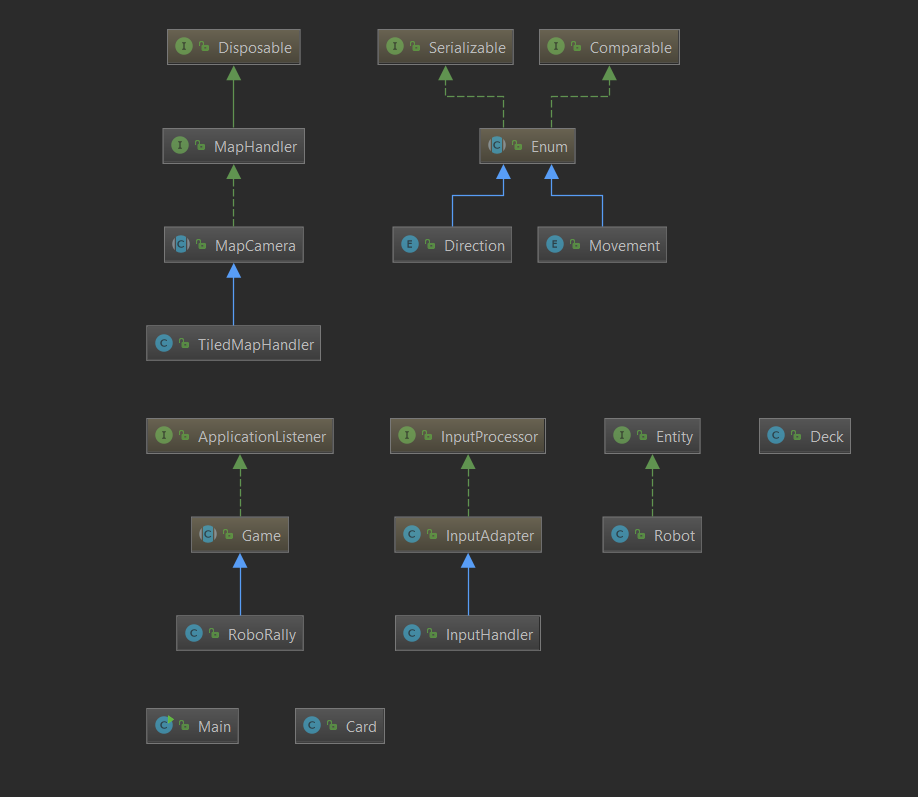
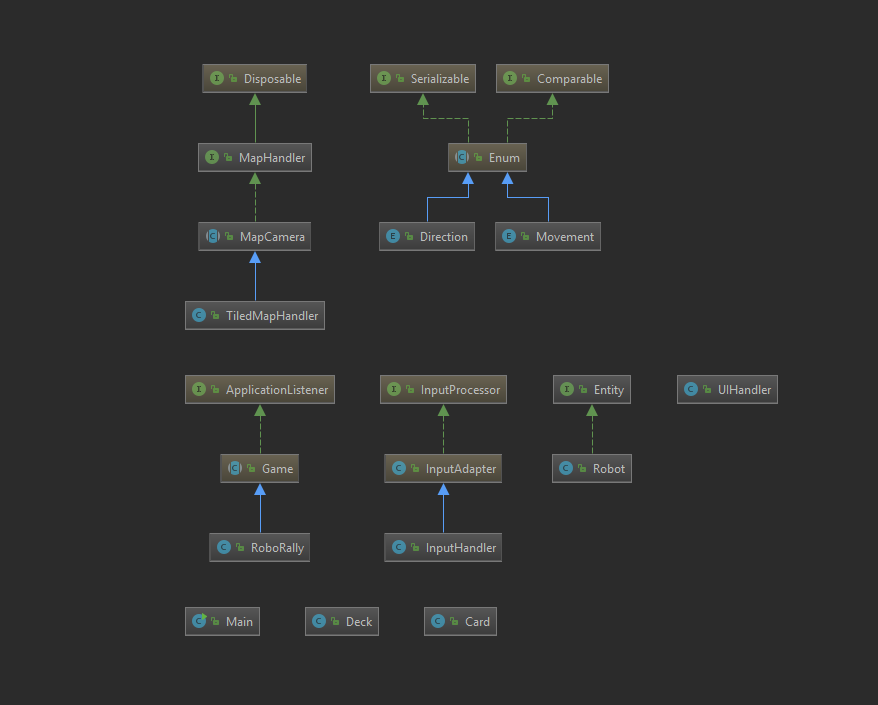
FINAL COMMIT FOR OBLIG 2

diff --git a/Deliverables/Oblig2-presentasjonsnotater.md b/Deliverables/Oblig2-presentasjonsnotater.md
@@ -1,8 +1,9 @@
-Før inn det rikke har skrevet i oblig2.md
+* We have decided to not follow one specific project methodology, but to pick elements we likefrom all of them. We are using a board inspired by both Scrum and Kanban to organize ourtasks. The board doesn’t have limitations to how many tasks can be in each column of theboard (Scrum), and we are also able to add tasks to the ToDo-column as they come up and notonly at the end of the iteration (Kanban).When a task is created and assigned to a group member (the developper), anothergroup member is also assigned to the task to write tests. We wanted to do it this way so thatyou don’t write tests for your own code, but your code has to pass someone elses tests. Anotherbenefit is that there are always two pairs of eyes to look for bugs in the code which will(hopefully) prevent most of the bugs from slipping through the testing phase. In addition wewant every push to master to go through a push request that has to be reviewed and acceptedby a third group member. The reviewer will read through the push request and check the coderuns without bugs on his/her computer. If the reviewer finds bugs, ugly code, lackingdocumentation, etc. (s)he won’t fix the problems, but comment in the push request what needsto be fixed and it’s the developers and testers responsibility to read the comment, fix whatneeds to be fixed and ask for a new review.We want to have two meetings per week (one meeting in addition to the group session).The organization of where and when will be done either at the previous meeting, or on Slack. Atmeetings we start with our version of the Scrum “standup”. We will also define tasks and assignthem, redefine and reassign tasks if necessary, and discuss any issues team members mighthave. The team leader (Kristian) is responsible for creating a meeting agenda, but all teammembers can add things they want to discuss to the agenda. In the project wiki we will postnotes of what has been discussed at every meeting.We are aware of the amount of bureaucracy we have prescribed, but we think this will bebeneficial to the project flow and code quality. If we at some point during the process realise thatour method isn’t efficient we will adapt, as both Kanban and Scrum prescribes!
+* Testing: 1 developer that implements, someone else makes tests
 
 Teknisk
 - Tiled
 - Annotations
 
-Demo av spillet?
-Hvilke funksjoner har vi?
+Demo av spillet
+Bilde av klassediagram, snakke om flyt og hva som beveger på hva

diff --git a/Deliverables/Oblig2-Retroperspektiv.md b/Deliverables/Oblig2-Retroperspektiv.md
@@ -4,3 +4,5 @@ Vi har mye byråkrati men følger at dette gir oss muligheten til å holde overs
 Vi har møttes et par ganger, i tillegg er vi jo på samme sted store deler av uken og møtes to og to titt og ofte. Derfor går kommunikasjonen bra og det er lett å diskutere løsninger og problemer i en uformell setting.
 Vi fant ut etter hvert at vi ønsket å koordinere mellom den som utvikler koden og den som skulle teste den. Derfor assignet vi tester og utvikler med en gang vi har bestemt at vi skal jobbe/gjøre noe med en issue.
 Vi klarer ikke helt bestemme oss for balansen mellom norsk og engelsk. Det blir mye begge deler, spesielt når vi blir enige om felles utrykk. Da føler vi at det ikke blir riktig å oversette de, da vi mister presisjonen i språket. Her har vi etter en ukes tid blitt enige om å definere både den engelske og den norske versjonen av de nødvendige utrykkene vi må bli enige om.
+
+Vi klarte å levere noenlunde det vi så for oss, men med noen tekniske begrensninger, vi la også til en ekstra oppgave som vi la til i iterasjonen etter en ukes tid. Den endte vi opp med å ikke rekke gjøre og det er dermed 1 issue igjen i iteration 1.

diff --git a/Deliverables/Oblig2.md b/Deliverables/Oblig2.md
@@ -46,6 +46,7 @@
 * Github wiki (documentation)
 * Tiled (dependency)
 * Annotations from jetbrains
+* JUnit
 
 # Task 2
 
